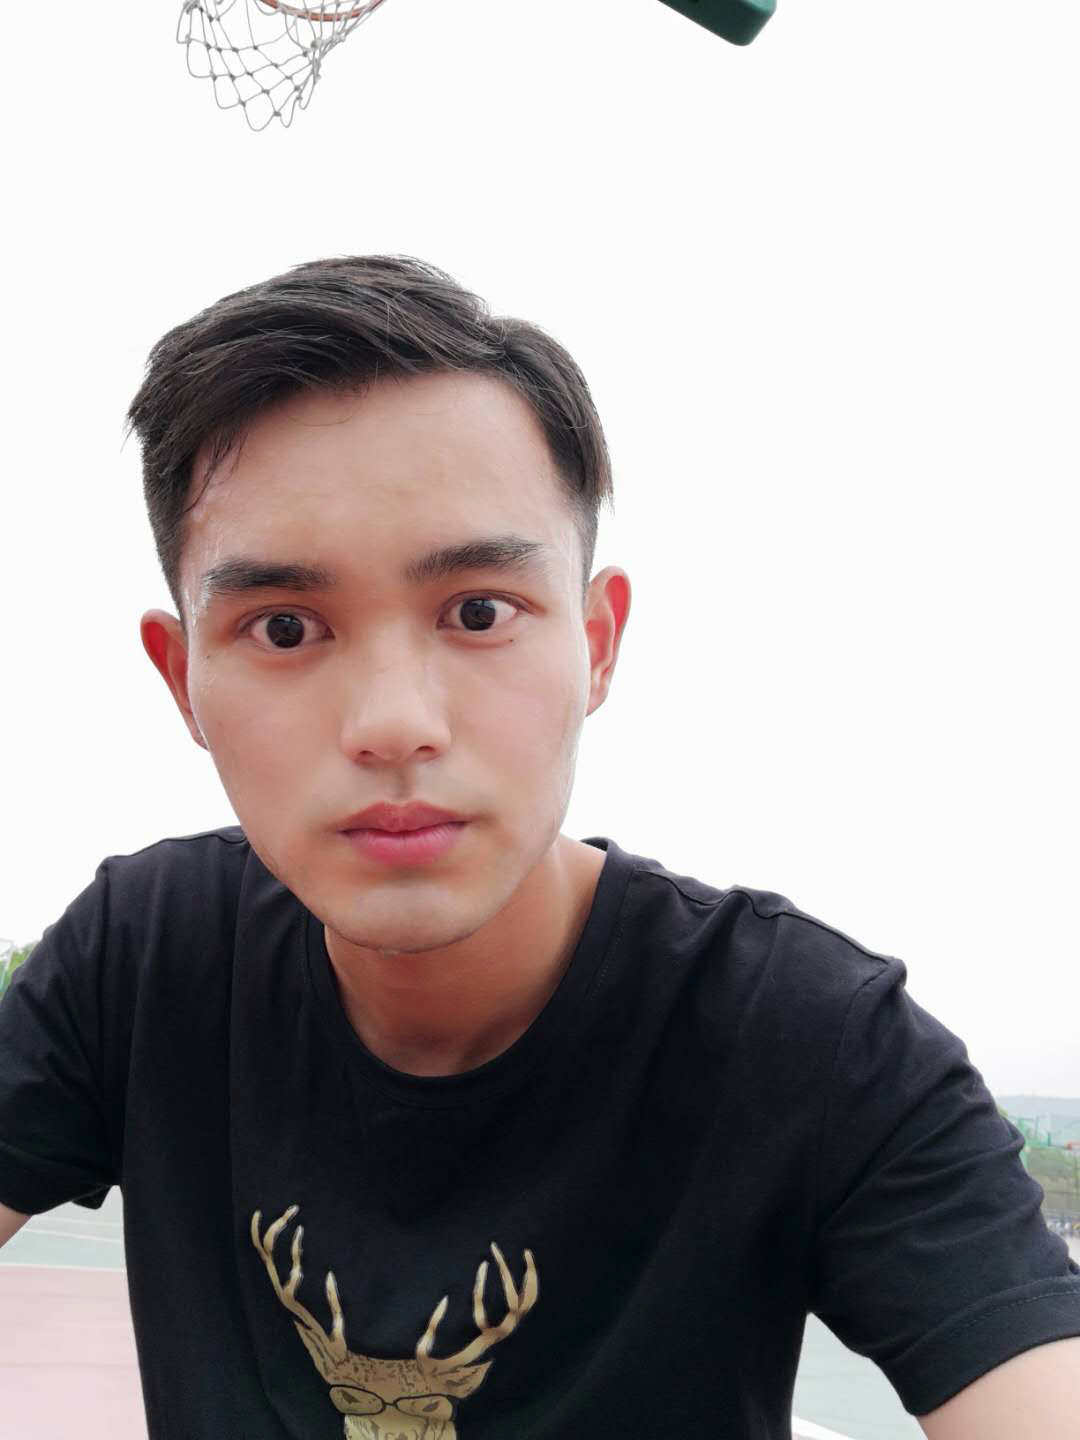
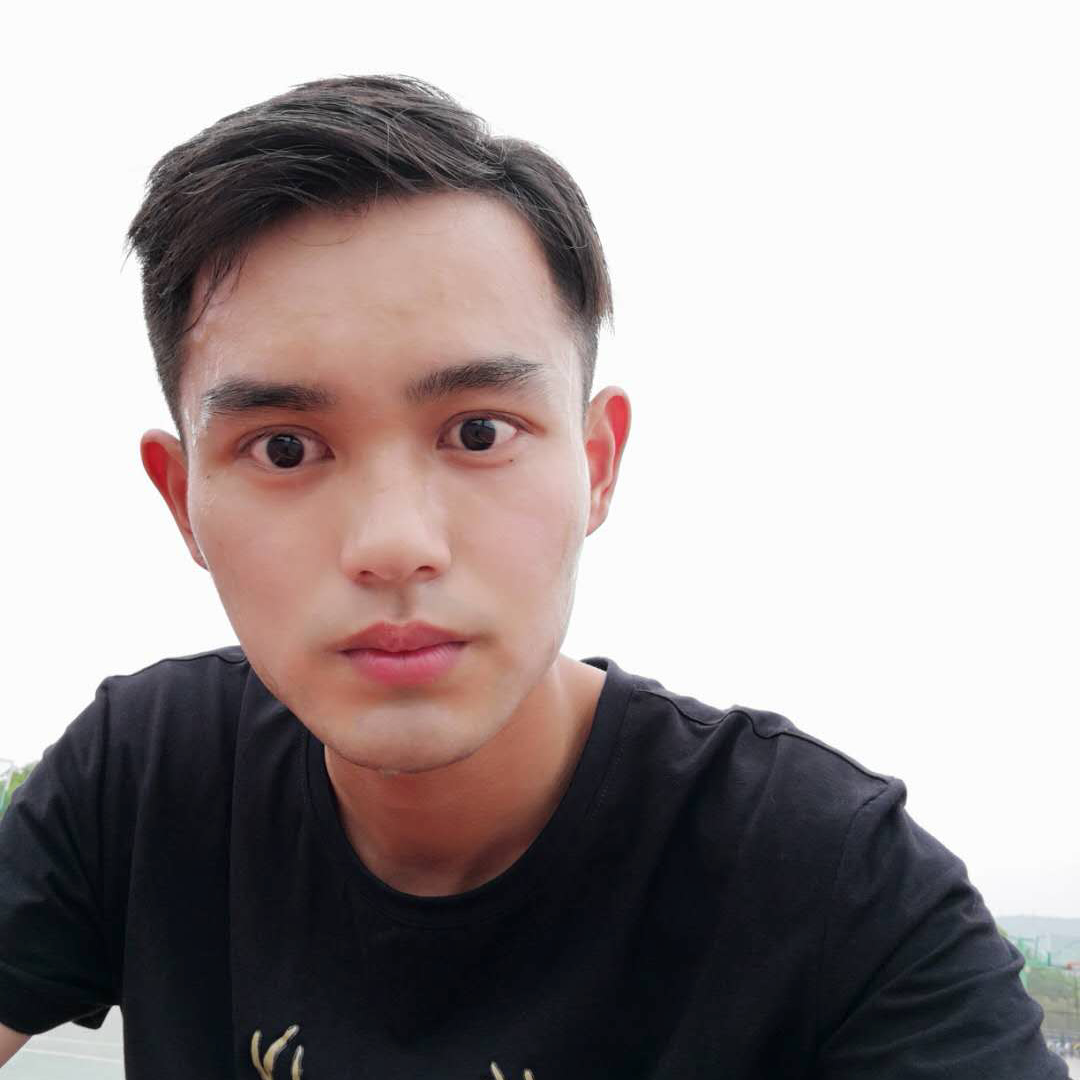
photo process

diff --git a/tool.py b/tool.py
@@ -1,0 +1,200 @@
+#coding: utf-8
+from PIL import Image
+import os
+import sys
+import json
+from datetime import datetime
+from ImageProcess import Graphics
+
+# 定义压缩比，数值越大，压缩越小
+SIZE_normal = 1.0
+SIZE_small = 1.5
+SIZE_more_small = 2.0
+SIZE_more_small_small = 3.0
+
+
+def make_directory(directory):
+    """创建目录"""
+    os.makedirs(directory)
+
+def directory_exists(directory):
+    """判断目录是否存在"""
+    if os.path.exists(directory):
+        return True
+    else:
+        return False
+
+def list_img_file(directory):
+    """列出目录下所有文件，并筛选出图片文件列表返回"""
+    old_list = os.listdir(directory)
+    # print old_list
+    new_list = []
+    for filename in old_list:
+        name, fileformat = filename.split(".")
+        if fileformat.lower() == "jpg" or fileformat.lower() == "png" or fileformat.lower() == "gif":
+            new_list.append(filename)
+    # print new_list
+    return new_list
+
+
+def print_help():
+    print("""
+    This program helps compress many image files
+    you can choose which scale you want to compress your img(jpg/png/etc)
+    1) normal compress(4M to 1M around)
+    2) small compress(4M to 500K around)
+    3) smaller compress(4M to 300K around)
+    """)
+
+def compress(choose, des_dir, src_dir, file_list):
+    """压缩算法，img.thumbnail对图片进行压缩，
+    
+    参数
+    -----------
+    choose: str
+            选择压缩的比例，有4个选项，越大压缩后的图片越小
+    """
+    if choose == '1':
+        scale = SIZE_normal
+    if choose == '2':
+        scale = SIZE_small
+    if choose == '3':
+        scale = SIZE_more_small
+    if choose == '4':
+        scale = SIZE_more_small_small
+    for infile in file_list:
+        img = Image.open(src_dir+infile)
+        # size_of_file = os.path.getsize(infile)
+        w, h = img.size
+        img.thumbnail((int(w/scale), int(h/scale)))
+        img.save(des_dir + infile)
+def compress_photo():
+    '''调用压缩图片的函数
+    '''
+    src_dir, des_dir = "photos/", "min_photos/"
+    
+    if directory_exists(src_dir):
+        if not directory_exists(src_dir):
+            make_directory(src_dir)
+        # business logic
+        file_list_src = list_img_file(src_dir)
+    if directory_exists(des_dir):
+        if not directory_exists(des_dir):
+            make_directory(des_dir)
+        file_list_des = list_img_file(des_dir)
+        # print file_list
+    '''如果已经压缩了，就不再压缩'''
+    for i in range(len(file_list_des)):
+        if file_list_des[i] in file_list_src:
+            file_list_src.remove(file_list_des[i])
+    compress('4', des_dir, src_dir, file_list_src)
+
+
+def handle_photo():
+    '''根据图片的文件名处理成需要的json格式的数据
+
+    -----------
+    最后将data.json文件存到博客的source/photos文件夹下
+    '''
+    src_dir, des_dir = "photos/", "min_photos/"
+    file_list = list_img_file(src_dir)
+    list_info = []
+    date_list = []
+    for i in range(len(file_list)):
+        filename = file_list[i]
+        date_str, info = filename.split("_")
+        info, _ = info.split(".")
+        date = datetime.strptime(date_str, "%Y-%m-%d")
+        year_month = '-'.join(date_str.split('-')[0:2])
+        if i == 0:  # 处理第一个文件
+            new_dict = {"date": year_month, "arr": {'year': date.year,
+                                                    'month': date.month,
+                                                    'link': [filename],
+                                                    'text': [info],
+                                                    'type': ['image']
+                                                    }
+                        }
+            date_list.append(date)
+            list_info.append(new_dict)
+        elif date in date_list:  # 是同一个日期,找到在 Date 数组中的索引
+            index = date_list.index(date)
+            list_info[index]['arr']['link'].append(filename)
+            list_info[index]['arr']['text'].append(info)
+            list_info[index]['arr']['type'].append('image')
+            
+        else:  # 不是同一个日期创建一个新的 dict
+            new_dict = {"date": year_month, "arr":{'year': date.year,
+                                                   'month': date.month,
+                                                   'link': [filename],
+                                                   'text': [info],
+                                                   'type': ['image']
+                                                   }
+                        }
+            date_list.append(date)
+            list_info.append(new_dict)
+
+    list_info = SortDict(list_info)
+    final_dict = {"list": list_info}
+    with open("/Users/qiangzhang/blog/source/photos/data.json", "w") as fp:
+        json.dump(final_dict, fp)
+
+
+# 冒泡排序
+def SortDict(list_info):
+    for num in range(len(list_info)-1,0,-1):
+        for i in range(num):
+            date1 = datetime.strptime(list_info[i]['date'],"%Y-%m")
+            date2 = datetime.strptime(list_info[i+1]['date'],"%Y-%m")
+            if date1 < date2:
+                temp = list_info[i]
+                list_info[i] = list_info[i+1]
+                list_info[i+1] = temp
+    return list_info
+
+
+
+def cut_photo():
+    """裁剪算法
+    
+    ----------
+    调用Graphics类中的裁剪算法，将src_dir目录下的文件进行裁剪（裁剪成正方形）
+    """
+    src_dir = "photos/"
+    if directory_exists(src_dir):
+        if not directory_exists(src_dir):
+            make_directory(src_dir)
+        # business logic
+        file_list = list_img_file(src_dir)
+        # print file_list
+        if file_list:
+            print_help()
+            for infile in file_list:
+                img = Image.open(src_dir+infile)
+                Graphics(infile=src_dir+infile, outfile=src_dir + infile).cut_by_ratio()            
+        else:
+            pass
+    else:
+        print("source directory not exist!")     
+
+
+
+def git_operation():
+    '''
+    git 命令行函数，将仓库提交
+    
+    ----------
+    需要安装git命令行工具，并且添加到环境变量中
+    '''
+    os.system('git add --all')
+    os.system('git commit -m "add photos"')
+    os.system('git push origin master')
+
+if __name__ == "__main__":
+    cut_photo()        # 裁剪图片，裁剪成正方形，去中间部分
+    compress_photo()   # 压缩图片，并保存到mini_photos文件夹下
+    # git_operation()    # 提交到github仓库
+    handle_photo()     # 将文件处理成json格式，存到博客仓库中
+    
+    
+    
+    

diff --git a/ImageProcess.py b/ImageProcess.py
@@ -1,0 +1,81 @@
+# coding=utf-8  
+from PIL import Image  
+import shutil  
+import os  
+
+class Graphics:  
+    '''图片处理类
+    
+    参数
+    -------
+    infile: 输入文件路径
+    outfile: 输出文件路径
+    '''
+    def __init__(self, infile, outfile):
+        self.infile = infile
+        self.outfile = outfile
+
+    def fixed_size(self, width, height):  
+        """按照固定尺寸处理图片"""  
+        im = Image.open(self.infile)  
+        out = im.resize((width, height),Image.ANTIALIAS)  
+        out.save(self.outfile)  
+
+
+    def resize_by_width(self, w_divide_h):  
+        """按照宽度进行所需比例缩放"""  
+        im = Image.open(self.infile)  
+        (x, y) = im.size   
+        x_s = x  
+        y_s = x/w_divide_h  
+        out = im.resize((x_s, y_s), Image.ANTIALIAS)   
+        out.save(self.outfile)  
+
+
+    def resize_by_height(self, w_divide_h):  
+        """按照高度进行所需比例缩放"""  
+        im = Image.open(self.infile)  
+        (x, y) = im.size   
+        x_s = y*w_divide_h  
+        y_s = y  
+        out = im.resize((x_s, y_s), Image.ANTIALIAS)   
+        out.save(self.outfile)  
+
+
+    def resize_by_size(self, size):  
+        """按照生成图片文件大小进行处理(单位KB)"""  
+        size *= 1024  
+        im = Image.open(self.infile)  
+        size_tmp = os.path.getsize(self.infile)  
+        q = 100  
+        while size_tmp > size and q > 0:  
+            print (q)  
+            out = im.resize(im.size, Image.ANTIALIAS)  
+            out.save(self.outfile, quality=q)  
+            size_tmp = os.path.getsize(self.outfile)  
+            q -= 5  
+        if q == 100:  
+            shutil.copy(self.infile, self.outfile)  
+
+  
+    def cut_by_ratio(self):  
+        """按照图片长宽进行分割
+        
+        ------------
+        取中间的部分，裁剪成正方形
+        """  
+        im = Image.open(self.infile)  
+        (x, y) = im.size  
+        if x > y:  
+            region = (int(x/2-y/2), 0, int(x/2+y/2), y)  
+            #裁切图片  
+            crop_img = im.crop(region)  
+            #保存裁切后的图片  
+            crop_img.save(self.outfile)             
+        elif x < y:  
+            region = (0, int(y/2-x/2), x, int(y/2+x/2))
+            #裁切图片  
+            crop_img = im.crop(region)  
+            #保存裁切后的图片  
+            crop_img.save(self.outfile)             
+
